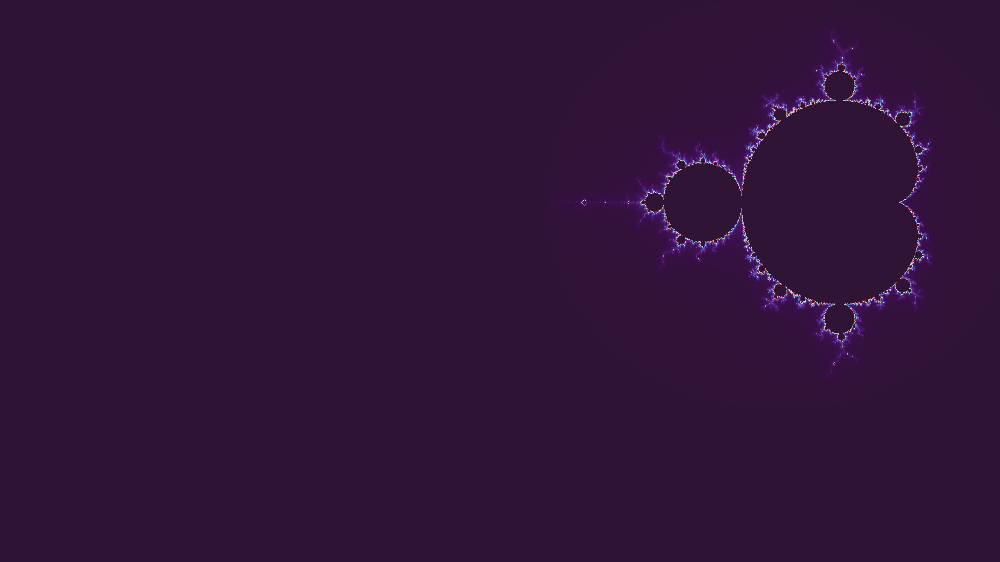
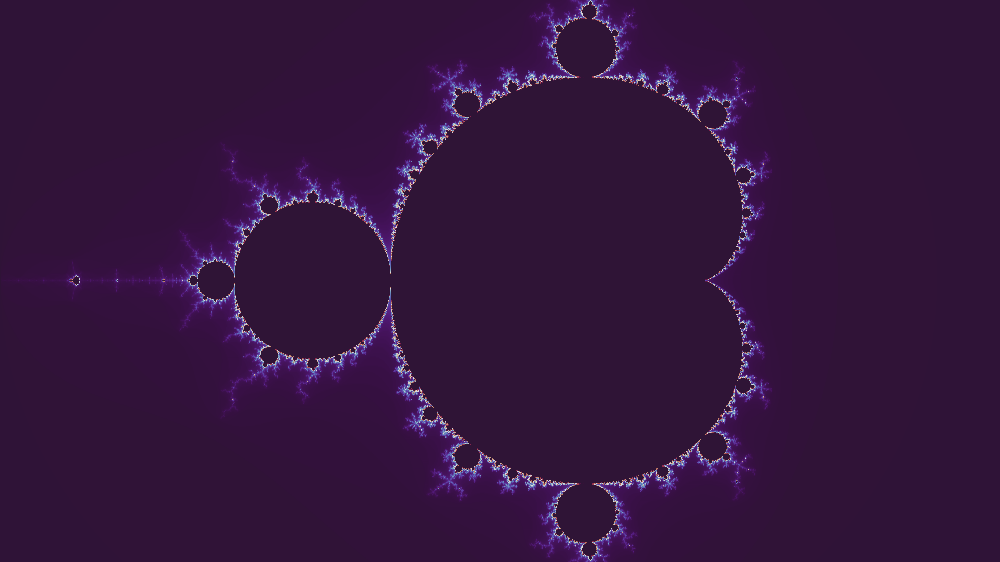
Mejora del zoom in/out

Changed region(s): [[0.062, 0.0, 0.93, 1.0]]

diff --git a/modelo.py b/modelo.py
@@ -2,14 +2,16 @@ import TodasFunciones2 as tf
 from MandelbrotGUI import Ui_Boundary
 from PyQt6 import QtCore, QtGui, QtWidgets
 
-def mostrar_fractal(ruta_imagen,self):
+
+
+def mostrar_fractal(ruta_imagen,self=Ui_Boundary()):
     pixmap = QtGui.QPixmap(ruta_imagen)
     scene = QtWidgets.QGraphicsScene()
     scene.addPixmap(pixmap)
     self.Grafica_mostrar.setScene(scene)
 
 
-def generar_mandelbrot(self):
+def generar_mandelbrot(self=Ui_Boundary()):
     xmin      =   float(self.xmin_entrada.text())
     xmax      =   float(self.xmax_entrada.text())
     ymin      =   float(self.ymin_entrada.text())
@@ -23,12 +25,25 @@ def generar_mandelbrot(self):
     mostrar_fractal("V:\ABoundary\mandelbrot.png",self)
     return "Mandelbrot generado"
 
-def zoom_in(self):
-    zoom_in_factor= float(self.zoom_in_factor_entrada.text())
-    self.xmin_entrada.setText(str(float(self.xmin_entrada.text())*zoom_in_factor))
-    self.xmax_entrada.setText(str(float(self.xmax_entrada.text())*zoom_in_factor))
-    self.ymin_entrada.setText(str(float(self.ymin_entrada.text())*zoom_in_factor))
-    self.ymax_entrada.setText(str(float(self.ymax_entrada.text())*zoom_in_factor))
+def zoom_in(self=Ui_Boundary()):
+    dimensiones= [0,0,0,0]
+    dimensiones[0]      =   float(self.xmin_entrada.text())
+    dimensiones[1]      =   float(self.xmax_entrada.text())
+    dimensiones[2]      =   float(self.ymin_entrada.text())
+    dimensiones[3]      =   float(self.ymax_entrada.text())
+    centro_x= (dimensiones[0]+dimensiones[1])/2
+    centro_y= (dimensiones[2]+dimensiones[3])/2
+    zoom_in_factor = float(self.zoom_in_factor_entrada.text())
+    dimensiones[0] = centro_x - (centro_x - dimensiones[0]) *zoom_in_factor
+    dimensiones[1] = centro_x + (dimensiones[1] - centro_x) *zoom_in_factor  
+    dimensiones[2] = centro_y - (centro_y - dimensiones[2]) *zoom_in_factor  
+    dimensiones[3] = centro_y + (dimensiones[3] - centro_y) *zoom_in_factor
+    
+    self.xmin_entrada.setText(str(dimensiones[0]))
+    self.xmax_entrada.setText(str(dimensiones[1]))
+    self.ymin_entrada.setText(str(dimensiones[2]))
+    self.ymax_entrada.setText(str(dimensiones[3]))
+
     xmin      =   float(self.xmin_entrada.text())
     xmax      =   float(self.xmax_entrada.text())
     ymin      =   float(self.ymin_entrada.text())
@@ -42,12 +57,24 @@ def zoom_in(self):
     mostrar_fractal("V:\ABoundary\mandelbrot.png",self)
     return "Mandelbrot generado"
 
-def zoom_out(self):
-    zoom_out_factor= float(self.zoom_out_factor_entrada.text())
-    self.xmin_entrada.setText(str(float(self.xmin_entrada.text())*zoom_out_factor))
-    self.xmax_entrada.setText(str(float(self.xmax_entrada.text())*zoom_out_factor))
-    self.ymin_entrada.setText(str(float(self.ymin_entrada.text())*zoom_out_factor))
-    self.ymax_entrada.setText(str(float(self.ymax_entrada.text())*zoom_out_factor))
+def zoom_out(self=Ui_Boundary()):
+    dimensiones= [0,0,0,0]
+    dimensiones[0]      =   float(self.xmin_entrada.text())
+    dimensiones[1]      =   float(self.xmax_entrada.text())
+    dimensiones[2]      =   float(self.ymin_entrada.text())
+    dimensiones[3]      =   float(self.ymax_entrada.text())
+    centro_x= (dimensiones[0]+dimensiones[1])/2
+    centro_y= (dimensiones[2]+dimensiones[3])/2
+    zoom_out_factor = float(self.zoom_out_factor_entrada.text())
+    dimensiones[0] = centro_x - (centro_x - dimensiones[0]) *zoom_out_factor
+    dimensiones[1] = centro_x + (dimensiones[1] - centro_x) *zoom_out_factor
+    dimensiones[2] = centro_y - (centro_y - dimensiones[2]) *zoom_out_factor
+    dimensiones[3] = centro_y + (dimensiones[3] - centro_y) *zoom_out_factor
+
+    self.xmin_entrada.setText(str(dimensiones[0]))
+    self.xmax_entrada.setText(str(dimensiones[1]))
+    self.ymin_entrada.setText(str(dimensiones[2]))
+    self.ymax_entrada.setText(str(dimensiones[3]))
     xmin      =   float(self.xmin_entrada.text())
     xmax      =   float(self.xmax_entrada.text())
     ymin      =   float(self.ymin_entrada.text())
@@ -61,7 +88,7 @@ def zoom_out(self):
     mostrar_fractal("V:\ABoundary\mandelbrot.png",self)
     return "Mandelbrot generado"
 
-def izquierda(self):
+def izquierda(self=Ui_Boundary()):
     mover= float(self.mover_entrada.text())
     self.xmin_entrada.setText(str(float(self.xmin_entrada.text())-mover))
     self.xmax_entrada.setText(str(float(self.xmax_entrada.text())-mover))
@@ -80,7 +107,7 @@ def izquierda(self):
     mostrar_fractal("V:\ABoundary\mandelbrot.png",self)
     return "Mandelbrot generado"
 
-def derecha(self):
+def derecha(self=Ui_Boundary()):
     mover= float(self.mover_entrada.text())
     self.xmin_entrada.setText(str(float(self.xmin_entrada.text())+mover))
     self.xmax_entrada.setText(str(float(self.xmax_entrada.text())+mover))
@@ -99,7 +126,7 @@ def derecha(self):
     mostrar_fractal("V:\ABoundary\mandelbrot.png",self)
     return "Mandelbrot generado"
 
-def subir(self):
+def subir(self=Ui_Boundary()):
     self.xmin_entrada.setText(str(float(self.xmin_entrada.text())))
     self.xmax_entrada.setText(str(float(self.xmax_entrada.text())))
     self.ymin_entrada.setText(str(float(self.ymin_entrada.text())-0.25))
@@ -117,7 +144,7 @@ def subir(self):
     mostrar_fractal("V:\ABoundary\mandelbrot.png",self)
     return "Mandelbrot generado"
 
-def bajar(self):
+def bajar(self=Ui_Boundary()):
     self.xmin_entrada.setText(str(float(self.xmin_entrada.text())))
     self.xmax_entrada.setText(str(float(self.xmax_entrada.text())))
     self.ymin_entrada.setText(str(float(self.ymin_entrada.text())+0.25))

diff --git a/MandelbrotGUI.py b/MandelbrotGUI.py
@@ -22,7 +22,7 @@ class Ui_Boundary(object):
         self.boton_hacer_fractal.setGeometry(QtCore.QRect(790, 30, 171, 24))
         self.boton_hacer_fractal.setObjectName("boton_hacer_fractal")
         self.verticalLayoutWidget = QtWidgets.QWidget(parent=self.centralwidget)
-        self.verticalLayoutWidget.setGeometry(QtCore.QRect(790, 150, 171, 391))
+        self.verticalLayoutWidget.setGeometry(QtCore.QRect(790, 150, 171, 396))
         self.verticalLayoutWidget.setObjectName("verticalLayoutWidget")
         self.verticalLayout = QtWidgets.QVBoxLayout(self.verticalLayoutWidget)
         self.verticalLayout.setContentsMargins(0, 0, 0, 0)
@@ -96,30 +96,42 @@ class Ui_Boundary(object):
         self.boton_bajar = QtWidgets.QPushButton(parent=self.centralwidget)
         self.boton_bajar.setGeometry(QtCore.QRect(1020, 110, 75, 24))
         self.boton_bajar.setObjectName("boton_bajar")
-        self.widget = QtWidgets.QWidget(parent=self.centralwidget)
-        self.widget.setGeometry(QtCore.QRect(980, 150, 135, 141))
-        self.widget.setObjectName("widget")
-        self.verticalLayout_2 = QtWidgets.QVBoxLayout(self.widget)
+        self.layoutWidget = QtWidgets.QWidget(parent=self.centralwidget)
+        self.layoutWidget.setGeometry(QtCore.QRect(980, 150, 135, 246))
+        self.layoutWidget.setObjectName("layoutWidget")
+        self.verticalLayout_2 = QtWidgets.QVBoxLayout(self.layoutWidget)
         self.verticalLayout_2.setContentsMargins(0, 0, 0, 0)
         self.verticalLayout_2.setObjectName("verticalLayout_2")
-        self.formula_label = QtWidgets.QLabel(parent=self.widget)
+        self.formula_label = QtWidgets.QLabel(parent=self.layoutWidget)
         self.formula_label.setObjectName("formula_label")
         self.verticalLayout_2.addWidget(self.formula_label)
-        self.formula_entrada = QtWidgets.QLineEdit(parent=self.widget)
+        self.formula_entrada = QtWidgets.QLineEdit(parent=self.layoutWidget)
         self.formula_entrada.setObjectName("formula_entrada")
         self.verticalLayout_2.addWidget(self.formula_entrada)
-        self.zoom_out_factor_label = QtWidgets.QLabel(parent=self.widget)
+        self.zoom_out_factor_label = QtWidgets.QLabel(parent=self.layoutWidget)
         self.zoom_out_factor_label.setObjectName("zoom_out_factor_label")
         self.verticalLayout_2.addWidget(self.zoom_out_factor_label)
-        self.zoom_out_factor_entrada = QtWidgets.QLineEdit(parent=self.widget)
+        self.zoom_out_factor_entrada = QtWidgets.QLineEdit(parent=self.layoutWidget)
         self.zoom_out_factor_entrada.setObjectName("zoom_out_factor_entrada")
         self.verticalLayout_2.addWidget(self.zoom_out_factor_entrada)
-        self.zoom_in_factor_label = QtWidgets.QLabel(parent=self.widget)
+        self.zoom_in_factor_label = QtWidgets.QLabel(parent=self.layoutWidget)
         self.zoom_in_factor_label.setObjectName("zoom_in_factor_label")
         self.verticalLayout_2.addWidget(self.zoom_in_factor_label)
-        self.zoom_in_factor_entrada = QtWidgets.QLineEdit(parent=self.widget)
+        self.zoom_in_factor_entrada = QtWidgets.QLineEdit(parent=self.layoutWidget)
         self.zoom_in_factor_entrada.setObjectName("zoom_in_factor_entrada")
         self.verticalLayout_2.addWidget(self.zoom_in_factor_entrada)
+        self.centro_x_label = QtWidgets.QLabel(parent=self.layoutWidget)
+        self.centro_x_label.setObjectName("centro_x_label")
+        self.verticalLayout_2.addWidget(self.centro_x_label)
+        self.centro_x_entrada = QtWidgets.QLineEdit(parent=self.layoutWidget)
+        self.centro_x_entrada.setObjectName("centro_x_entrada")
+        self.verticalLayout_2.addWidget(self.centro_x_entrada)
+        self.centro_y_label = QtWidgets.QLabel(parent=self.layoutWidget)
+        self.centro_y_label.setObjectName("centro_y_label")
+        self.verticalLayout_2.addWidget(self.centro_y_label)
+        self.centro_y_entrada = QtWidgets.QLineEdit(parent=self.layoutWidget)
+        self.centro_y_entrada.setObjectName("centro_y_entrada")
+        self.verticalLayout_2.addWidget(self.centro_y_entrada)
         Boundary.setCentralWidget(self.centralwidget)
         self.menubar = QtWidgets.QMenuBar(parent=Boundary)
         self.menubar.setGeometry(QtCore.QRect(0, 0, 1150, 22))
@@ -164,6 +176,10 @@ class Ui_Boundary(object):
         self.zoom_out_factor_entrada.setText(_translate("Boundary", "2.0"))
         self.zoom_in_factor_label.setText(_translate("Boundary", "Zoom in factor"))
         self.zoom_in_factor_entrada.setText(_translate("Boundary", "0.5"))
+        self.centro_x_label.setText(_translate("Boundary", "Centro X"))
+        self.centro_x_entrada.setText(_translate("Boundary", "0"))
+        self.centro_y_label.setText(_translate("Boundary", "Centro Y"))
+        self.centro_y_entrada.setText(_translate("Boundary", "0"))
 
 
 if __name__ == "__main__":

diff --git a/MandelbrotGUI_ui.py b/MandelbrotGUI_ui.py
@@ -22,7 +22,7 @@ class Ui_Boundary(object):
         self.boton_hacer_fractal.setGeometry(QtCore.QRect(790, 30, 171, 24))
         self.boton_hacer_fractal.setObjectName("boton_hacer_fractal")
         self.verticalLayoutWidget = QtWidgets.QWidget(parent=self.centralwidget)
-        self.verticalLayoutWidget.setGeometry(QtCore.QRect(790, 150, 171, 391))
+        self.verticalLayoutWidget.setGeometry(QtCore.QRect(790, 150, 171, 396))
         self.verticalLayoutWidget.setObjectName("verticalLayoutWidget")
         self.verticalLayout = QtWidgets.QVBoxLayout(self.verticalLayoutWidget)
         self.verticalLayout.setContentsMargins(0, 0, 0, 0)
@@ -96,30 +96,42 @@ class Ui_Boundary(object):
         self.boton_bajar = QtWidgets.QPushButton(parent=self.centralwidget)
         self.boton_bajar.setGeometry(QtCore.QRect(1020, 110, 75, 24))
         self.boton_bajar.setObjectName("boton_bajar")
-        self.widget = QtWidgets.QWidget(parent=self.centralwidget)
-        self.widget.setGeometry(QtCore.QRect(980, 150, 135, 141))
-        self.widget.setObjectName("widget")
-        self.verticalLayout_2 = QtWidgets.QVBoxLayout(self.widget)
+        self.layoutWidget = QtWidgets.QWidget(parent=self.centralwidget)
+        self.layoutWidget.setGeometry(QtCore.QRect(980, 150, 135, 246))
+        self.layoutWidget.setObjectName("layoutWidget")
+        self.verticalLayout_2 = QtWidgets.QVBoxLayout(self.layoutWidget)
         self.verticalLayout_2.setContentsMargins(0, 0, 0, 0)
         self.verticalLayout_2.setObjectName("verticalLayout_2")
-        self.formula_label = QtWidgets.QLabel(parent=self.widget)
+        self.formula_label = QtWidgets.QLabel(parent=self.layoutWidget)
         self.formula_label.setObjectName("formula_label")
         self.verticalLayout_2.addWidget(self.formula_label)
-        self.formula_entrada = QtWidgets.QLineEdit(parent=self.widget)
+        self.formula_entrada = QtWidgets.QLineEdit(parent=self.layoutWidget)
         self.formula_entrada.setObjectName("formula_entrada")
         self.verticalLayout_2.addWidget(self.formula_entrada)
-        self.zoom_out_factor_label = QtWidgets.QLabel(parent=self.widget)
+        self.zoom_out_factor_label = QtWidgets.QLabel(parent=self.layoutWidget)
         self.zoom_out_factor_label.setObjectName("zoom_out_factor_label")
         self.verticalLayout_2.addWidget(self.zoom_out_factor_label)
-        self.zoom_out_factor_entrada = QtWidgets.QLineEdit(parent=self.widget)
+        self.zoom_out_factor_entrada = QtWidgets.QLineEdit(parent=self.layoutWidget)
         self.zoom_out_factor_entrada.setObjectName("zoom_out_factor_entrada")
         self.verticalLayout_2.addWidget(self.zoom_out_factor_entrada)
-        self.zoom_in_factor_label = QtWidgets.QLabel(parent=self.widget)
+        self.zoom_in_factor_label = QtWidgets.QLabel(parent=self.layoutWidget)
         self.zoom_in_factor_label.setObjectName("zoom_in_factor_label")
         self.verticalLayout_2.addWidget(self.zoom_in_factor_label)
-        self.zoom_in_factor_entrada = QtWidgets.QLineEdit(parent=self.widget)
+        self.zoom_in_factor_entrada = QtWidgets.QLineEdit(parent=self.layoutWidget)
         self.zoom_in_factor_entrada.setObjectName("zoom_in_factor_entrada")
         self.verticalLayout_2.addWidget(self.zoom_in_factor_entrada)
+        self.centro_x_label = QtWidgets.QLabel(parent=self.layoutWidget)
+        self.centro_x_label.setObjectName("centro_x_label")
+        self.verticalLayout_2.addWidget(self.centro_x_label)
+        self.centro_x_entrada = QtWidgets.QLineEdit(parent=self.layoutWidget)
+        self.centro_x_entrada.setObjectName("centro_x_entrada")
+        self.verticalLayout_2.addWidget(self.centro_x_entrada)
+        self.centro_y_label = QtWidgets.QLabel(parent=self.layoutWidget)
+        self.centro_y_label.setObjectName("centro_y_label")
+        self.verticalLayout_2.addWidget(self.centro_y_label)
+        self.centro_y_entrada = QtWidgets.QLineEdit(parent=self.layoutWidget)
+        self.centro_y_entrada.setObjectName("centro_y_entrada")
+        self.verticalLayout_2.addWidget(self.centro_y_entrada)
         Boundary.setCentralWidget(self.centralwidget)
         self.menubar = QtWidgets.QMenuBar(parent=Boundary)
         self.menubar.setGeometry(QtCore.QRect(0, 0, 1150, 22))
@@ -164,3 +176,7 @@ class Ui_Boundary(object):
         self.zoom_out_factor_entrada.setText(_translate("Boundary", "2.0"))
         self.zoom_in_factor_label.setText(_translate("Boundary", "Zoom in factor"))
         self.zoom_in_factor_entrada.setText(_translate("Boundary", "0.5"))
+        self.centro_x_label.setText(_translate("Boundary", "Centro X"))
+        self.centro_x_entrada.setText(_translate("Boundary", "0"))
+        self.centro_y_label.setText(_translate("Boundary", "Centro Y"))
+        self.centro_y_entrada.setText(_translate("Boundary", "0"))

diff --git a/controlador.py b/controlador.py
@@ -27,4 +27,3 @@ MainWindow.show()
 md.generar_mandelbrot(ui)
 sys.exit(app.exec())
 
-    
